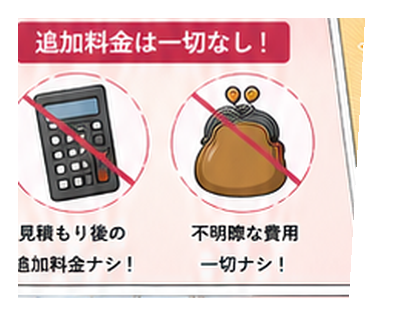
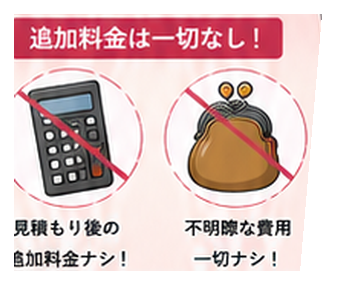
Clean remaining manga crop artifacts

diff --git a/ihinseiri-lp/index.html b/ihinseiri-lp/index.html
@@ -22,7 +22,7 @@
       name="twitter:description"
       content="認定遺品整理士と古物商許可のある体制で、遺品整理・買取相談・特殊清掃・原状回復まで安心して相談できます。"
     />
-    <link rel="stylesheet" href="./styles.css?v=20260621h" />
+    <link rel="stylesheet" href="./styles.css?v=20260621i" />
     <link rel="stylesheet" href="./badge-fix.css?v=20260619c" />
   </head>
   <body>